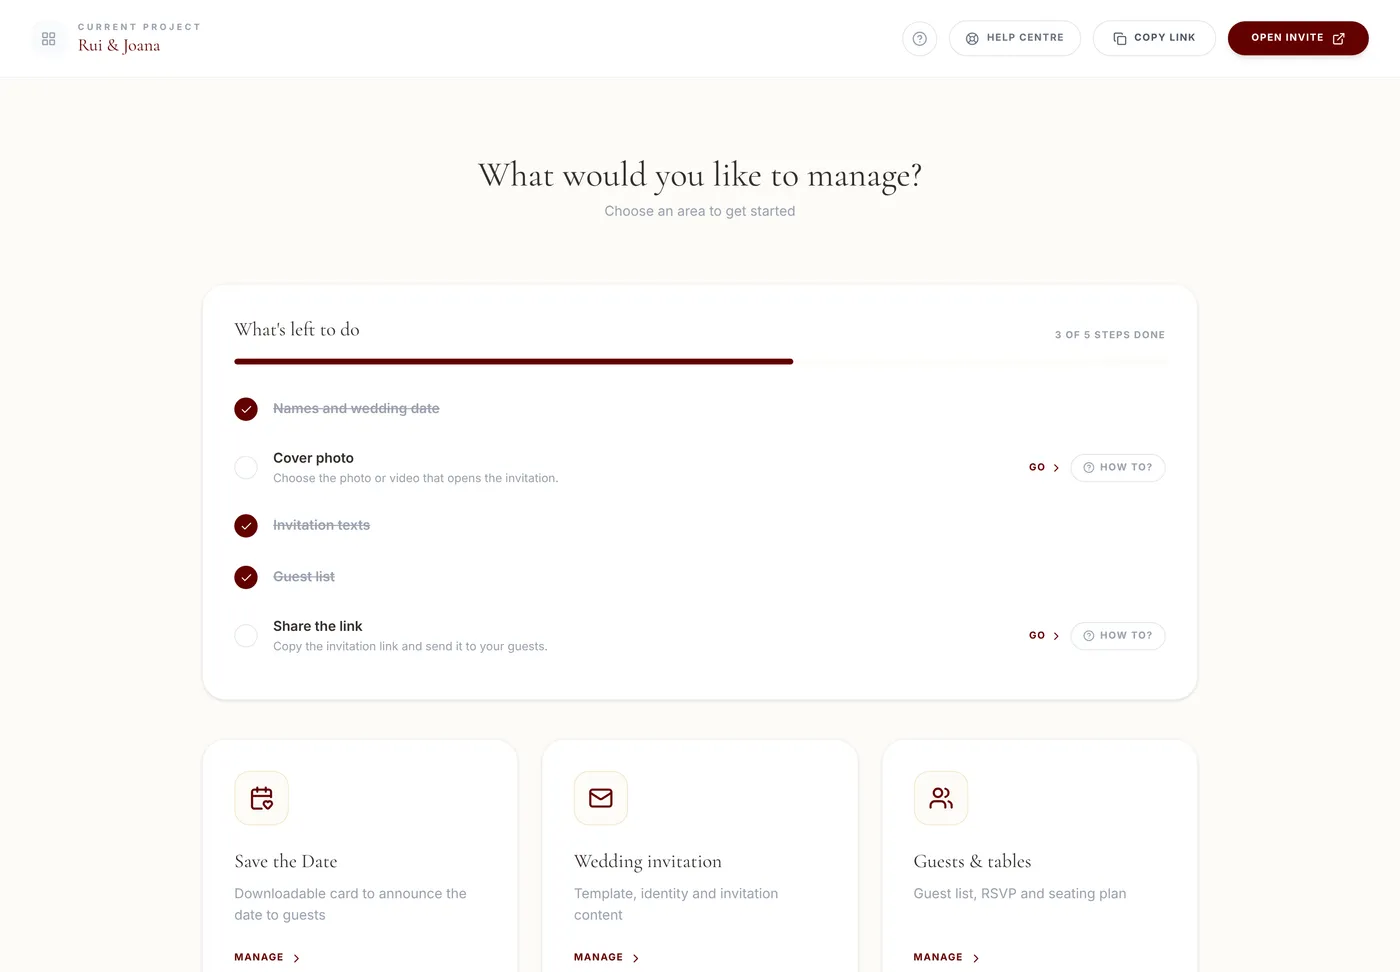
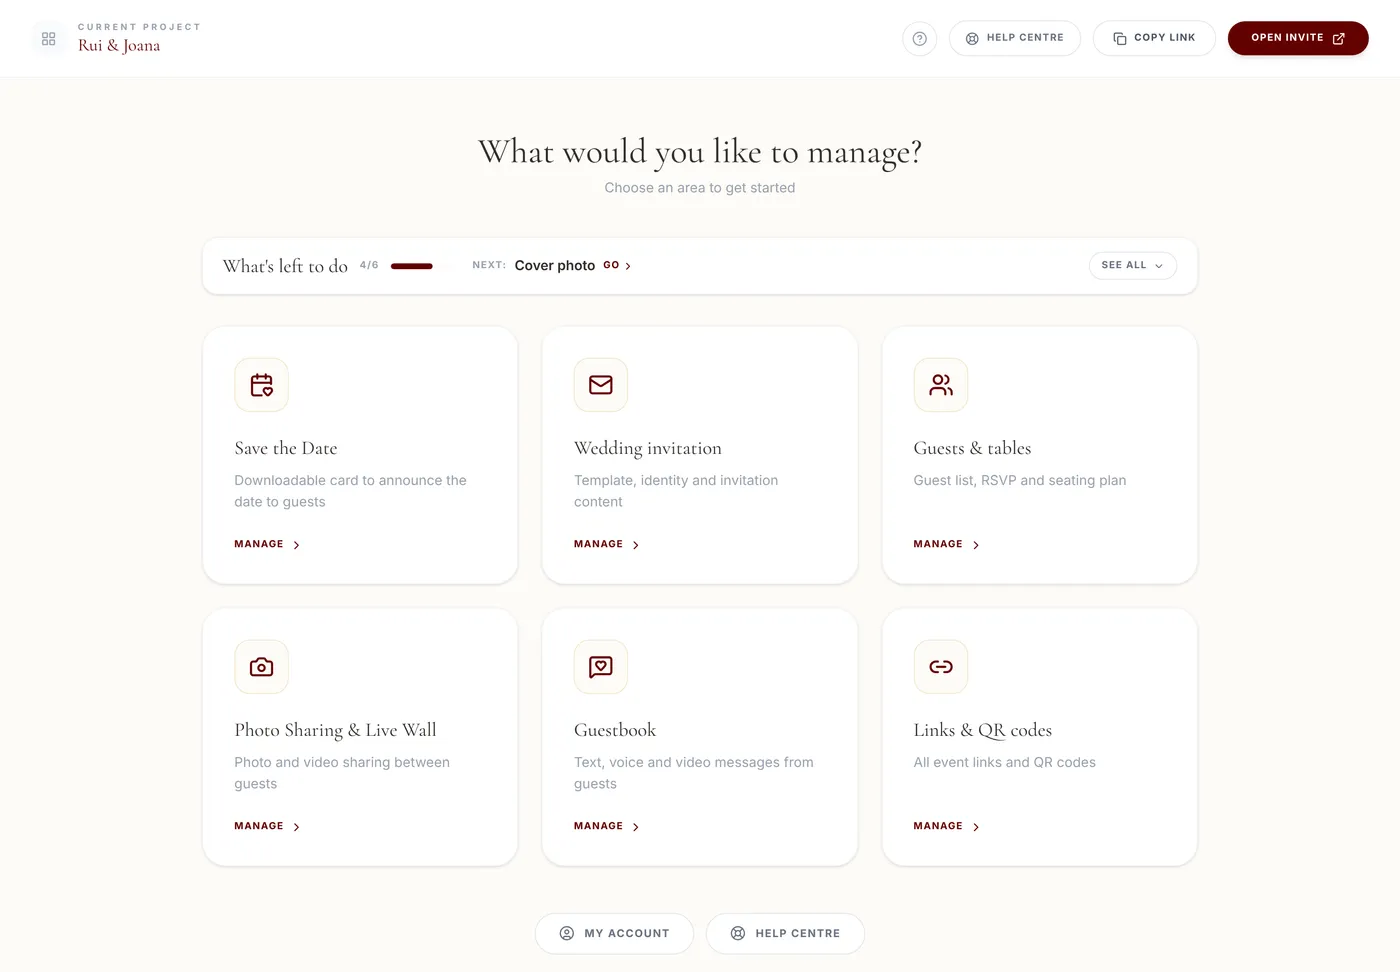
"O que falta fazer" mais discreto: barra compacta, lista em Ver tudo
- Fechado por omissão: uma linha com o progresso, o próximo passo e Ir
- Ver tudo abre a lista completa; o painel lembra-se, por evento
- Menos espaço vazio no topo do hub; ajuda PT/EN e captura do hub refeitas

Claude-Session: https://claude.ai/code/session_01LHBcQC4ALkSzPbFxTnStZp

diff --git a/components/dashboard/SetupChecklist.tsx b/components/dashboard/SetupChecklist.tsx
@@ -1,10 +1,15 @@
 "use client";
-import { Check, ChevronRight, HelpCircle, PartyPopper, X } from "lucide-react";
+import { useEffect, useState } from "react";
+import { Check, ChevronDown, ChevronRight, HelpCircle, PartyPopper, X } from "lucide-react";
 
 // "O que falta fazer": progresso de preparação do convite, no topo do hub.
 // Cada passo é calculado a partir de dados que já existem (nomes, foto,
 // textos, lista de convidados, link copiado) — não guarda estado próprio, por
 // isso nunca fica dessincronizado com o que o casal realmente fez.
+//
+// Por omissão aparece fechado: uma barra de uma linha com o progresso, o
+// próximo passo e "Ver tudo". Aberto, mostra a lista completa. A escolha fica
+// guardada no browser, por evento (storageKey).
 
 export type ChecklistItem = {
   id: string;
@@ -23,6 +28,9 @@ type Dict = {
   allDoneDesc: string;
   dismiss: string;
   howBtn?: string;
+  next?: string;     // "Próximo:"
+  showAll?: string;  // "Ver tudo"
+  showLess?: string; // "Fechar"
 };
 
 type Props = {
@@ -30,75 +38,111 @@ type Props = {
   dict: Dict;
   onDismiss: () => void;
   onHelp?: (slug: string) => void;
+  storageKey?: string;
 };
 
-export default function SetupChecklist({ items, dict, onDismiss, onHelp }: Props) {
+export default function SetupChecklist({ items, dict, onDismiss, onHelp, storageKey }: Props) {
+  const [open, setOpen] = useState(false);
+  useEffect(() => {
+    if (!storageKey) return;
+    try { setOpen(localStorage.getItem(storageKey) === "1"); } catch { /* sem localStorage: fica fechado */ }
+  }, [storageKey]);
+  const toggle = () => {
+    setOpen(o => {
+      const next = !o;
+      if (storageKey) { try { localStorage.setItem(storageKey, next ? "1" : "0"); } catch { /* ignorar */ } }
+      return next;
+    });
+  };
+
   if (items.length === 0) return null;
   const done = items.filter(i => i.done).length;
   const total = items.length;
   const pct = Math.round((done / total) * 100);
+  const nextItem = items.find(i => !i.done);
+  const progressLabel = dict.progress.replace("{done}", String(done)).replace("{total}", String(total));
 
   if (done === total) {
     return (
-      <div data-checklist="done" className="mb-10 bg-green-50 border border-green-100 rounded-3xl px-6 py-5 flex items-center gap-4">
-        <div className="w-11 h-11 rounded-2xl bg-white border border-green-100 flex items-center justify-center text-green-500 shrink-0">
-          <PartyPopper size={20} />
-        </div>
-        <div className="flex-1 min-w-0">
-          <p className="font-serif text-lg text-ink leading-snug">{dict.allDoneTitle}</p>
-          <p className="text-gray-500 text-xs mt-0.5">{dict.allDoneDesc}</p>
-        </div>
-        <button onClick={onDismiss} aria-label={dict.dismiss} className="text-gray-400 hover:text-gray-600 p-2 rounded-full hover:bg-white transition-all">
-          <X size={16} />
+      <div data-checklist="done" className="mb-8 bg-green-50 border border-green-100 rounded-2xl px-5 py-3 flex items-center gap-3">
+        <PartyPopper size={18} className="text-green-500 shrink-0" />
+        <p className="flex-1 min-w-0 text-sm text-ink"><span className="font-semibold">{dict.allDoneTitle}</span> <span className="text-gray-500 text-xs hidden sm:inline">{dict.allDoneDesc}</span></p>
+        <button onClick={onDismiss} aria-label={dict.dismiss} className="text-gray-400 hover:text-gray-600 p-1.5 rounded-full hover:bg-white transition-all">
+          <X size={15} />
         </button>
       </div>
     );
   }
 
+  const progressBar = (
+    <div className="h-1.5 bg-cream rounded-full overflow-hidden" role="progressbar" aria-valuenow={pct} aria-valuemin={0} aria-valuemax={100} aria-label={progressLabel}>
+      <div className="h-full bg-brand rounded-full transition-all duration-500" style={{ width: `${pct}%` }} />
+    </div>
+  );
+
   return (
-    <section data-checklist="todo" className="mb-10 bg-white border border-gray-100 rounded-3xl p-6 sm:p-8 shadow-sm">
-      <div className="flex items-end justify-between gap-4 mb-4">
-        <h3 className="font-serif text-xl text-ink">{dict.title}</h3>
-        <span className="text-[10px] font-bold uppercase tracking-widest text-gray-400 shrink-0">
-          {dict.progress.replace("{done}", String(done)).replace("{total}", String(total))}
-        </span>
+    <section data-checklist="todo" data-open={open} className="mb-8 bg-white border border-gray-100 rounded-2xl shadow-sm">
+      {/* Barra compacta (sempre visível) */}
+      <div className="px-5 py-3.5 flex flex-wrap items-center gap-x-5 gap-y-2">
+        <div className="flex items-center gap-3 min-w-[180px]">
+          <h3 className="font-serif text-xl text-ink whitespace-nowrap">{dict.title}</h3>
+          <span className="text-[10px] font-bold uppercase tracking-widest text-gray-400 whitespace-nowrap">{done}/{total}</span>
+          <div className="w-16 hidden sm:block">{progressBar}</div>
+        </div>
+        {nextItem && !open && (
+          <button onClick={nextItem.onGo} className="flex-1 min-w-0 flex items-center gap-2 text-left group">
+            <span className="text-[10px] font-bold uppercase tracking-widest text-gray-400 shrink-0">{dict.next ?? "Próximo:"}</span>
+            <span className="text-sm text-ink font-semibold truncate group-hover:text-brand transition-colors">{nextItem.label}</span>
+            <span className="inline-flex items-center gap-0.5 text-[10px] font-bold uppercase tracking-widest text-brand shrink-0 group-hover:gap-1.5 transition-all">
+              {dict.go} <ChevronRight size={12} />
+            </span>
+          </button>
+        )}
+        {open && <span className="flex-1 text-[10px] font-bold uppercase tracking-widest text-gray-400">{progressLabel}</span>}
+        <button
+          onClick={toggle}
+          aria-expanded={open}
+          className="ml-auto inline-flex items-center gap-1.5 text-[10px] font-bold uppercase tracking-widest text-gray-500 hover:text-brand border border-gray-200 hover:border-gold-soft rounded-full px-3 py-1.5 transition-all shrink-0"
+        >
+          {open ? (dict.showLess ?? "Fechar") : (dict.showAll ?? "Ver tudo")}
+          <ChevronDown size={12} className={`transition-transform ${open ? "rotate-180" : ""}`} />
+        </button>
       </div>
 
-      <div className="h-1.5 bg-cream rounded-full overflow-hidden mb-5" role="progressbar" aria-valuenow={pct} aria-valuemin={0} aria-valuemax={100}>
-        <div className="h-full bg-brand rounded-full transition-all duration-500" style={{ width: `${pct}%` }} />
-      </div>
-
-      <ul className="divide-y divide-gray-50">
-        {items.map(item => (
-          <li key={item.id} data-item={item.id} data-done={item.done} className="flex items-center gap-2">
-            <button
-              onClick={item.onGo}
-              className="flex-1 min-w-0 flex items-center gap-4 py-3.5 text-left group"
-            >
-              <span className={`w-6 h-6 rounded-full flex items-center justify-center shrink-0 border transition-colors ${item.done ? "bg-brand border-brand text-white" : "border-gray-200 text-transparent group-hover:border-brand"}`}>
-                <Check size={13} />
-              </span>
-              <span className="flex-1 min-w-0">
-                <span className={`block text-sm font-semibold ${item.done ? "text-gray-400 line-through" : "text-ink"}`}>{item.label}</span>
-                {!item.done && <span className="block text-xs text-gray-400 mt-0.5">{item.hint}</span>}
-              </span>
-              {!item.done && (
-                <span className="hidden sm:inline-flex items-center gap-1 text-[10px] font-bold uppercase tracking-widest text-brand group-hover:gap-2 transition-all shrink-0">
-                  {dict.go} <ChevronRight size={13} />
-                </span>
-              )}
-            </button>
-            {!item.done && item.helpSlug && onHelp && dict.howBtn && (
-              <button
-                onClick={() => onHelp(item.helpSlug!)}
-                className="shrink-0 flex items-center gap-1.5 text-[10px] font-bold uppercase tracking-widest text-gray-400 hover:text-brand border border-gray-200 hover:border-gold-soft rounded-full px-3 py-1.5 transition-all"
-              >
-                <HelpCircle size={12} /> {dict.howBtn}
-              </button>
-            )}
-          </li>
-        ))}
-      </ul>
+      {/* Lista completa (só aberta) */}
+      {open && (
+        <div className="px-5 sm:px-6 pb-4 border-t border-gray-50">
+          <div className="pt-3 sm:hidden">{progressBar}</div>
+          <ul className="divide-y divide-gray-50">
+            {items.map(item => (
+              <li key={item.id} data-item={item.id} data-done={item.done} className="flex items-center gap-2">
+                <button onClick={item.onGo} className="flex-1 min-w-0 flex items-center gap-4 py-3 text-left group">
+                  <span className={`w-6 h-6 rounded-full flex items-center justify-center shrink-0 border transition-colors ${item.done ? "bg-brand border-brand text-white" : "border-gray-200 text-transparent group-hover:border-brand"}`}>
+                    <Check size={13} />
+                  </span>
+                  <span className="flex-1 min-w-0">
+                    <span className={`block text-sm font-semibold ${item.done ? "text-gray-400 line-through" : "text-ink"}`}>{item.label}</span>
+                    {!item.done && <span className="block text-xs text-gray-400 mt-0.5">{item.hint}</span>}
+                  </span>
+                  {!item.done && (
+                    <span className="hidden sm:inline-flex items-center gap-1 text-[10px] font-bold uppercase tracking-widest text-brand group-hover:gap-2 transition-all shrink-0">
+                      {dict.go} <ChevronRight size={13} />
+                    </span>
+                  )}
+                </button>
+                {!item.done && item.helpSlug && onHelp && dict.howBtn && (
+                  <button
+                    onClick={() => onHelp(item.helpSlug!)}
+                    className="shrink-0 flex items-center gap-1.5 text-[10px] font-bold uppercase tracking-widest text-gray-400 hover:text-brand border border-gray-200 hover:border-gold-soft rounded-full px-3 py-1.5 transition-all"
+                  >
+                    <HelpCircle size={12} /> {dict.howBtn}
+                  </button>
+                )}
+              </li>
+            ))}
+          </ul>
+        </div>
+      )}
     </section>
   );
 }

diff --git a/content/help/pt.ts b/content/help/pt.ts
@@ -104,7 +104,7 @@ export const helpPt: HelpContent = {
       ],
       steps: [
         "Ao abrirem um evento vêm a página **O que quer gerir?**, com um cartão por área: **Save the Date**, **Convite de casamento**, **Convidados e mesas**, **Photo Sharing & Live Wall**, **Guestbook** e **Links e QR codes**.",
-        "No topo, a lista **O que falta fazer** mostra os passos que ainda faltam e leva-vos a cada um.",
+        "No topo, a barra **O que falta fazer** mostra o progresso e o próximo passo, com **Ir** para lá chegar. Em **Ver tudo** abrem a lista completa; o painel lembra-se se a deixaram aberta ou fechada.",
         "Carreguem num cartão para entrar nessa área. Lá dentro, o menu à esquerda muda de separador e **Áreas** volta à página inicial. Em ecrãs pequenos o menu fica em baixo.",
         "No **Convite**, o telemóvel à direita mostra o convite como os convidados o vão ver e atualiza sozinho depois de gravar.",
         "**Minha Conta**, no fundo do menu, tem quatro blocos: **O vosso plano**, **Pagamentos**, **Equipa do evento** e **Os vossos dados**.",

diff --git a/content/help/en.ts b/content/help/en.ts
@@ -106,7 +106,7 @@ export const helpEn: HelpContent = {
       ],
       steps: [
         "When you open an event you land on **What would you like to manage?**, with one card per area: **Save the Date**, **Wedding invitation**, **Guests & tables**, **Photo Sharing & Live Wall**, **Guestbook** and **Links & QR codes**.",
-        "At the top, the **What's left to do** list shows the steps still missing and takes you to each one.",
+        "At the top, the **What's left to do** bar shows your progress and the next step, with **Go** to get there. **See all** opens the full list; the dashboard remembers whether you left it open or closed.",
         "Click a card to enter that area. Inside, the menu on the left switches tabs and **Areas** goes back to the home page. On small screens the menu is at the bottom.",
         "In the **Invitation**, the phone on the right shows the invitation as guests will see it and refreshes by itself after saving.",
         "**My Account**, at the bottom of the menu, has four blocks: **Your plan**, **Payments**, **Event team** and **Your details**.",

diff --git a/app/[locale]/dashboard/[slug]/page.tsx b/app/[locale]/dashboard/[slug]/page.tsx
@@ -693,15 +693,15 @@ export default function Dashboard() {
         {helpDrawer}
         {payerModal}
 
-        <main className="flex-1 px-6 py-14 sm:py-20">
+        <main className="flex-1 px-6 py-10 sm:py-14">
           <div className="max-w-5xl mx-auto">
             {statusBanner("mb-10")}
-            <div className="text-center mb-12 sm:mb-16">
+            <div className="text-center mb-8 sm:mb-10">
               <h2 className="font-serif text-3xl sm:text-4xl text-ink">{dict.hubTitle}</h2>
               <p className="text-gray-400 text-sm mt-2">{dict.hubSubtitle}</p>
             </div>
 
-            {!checklistHidden && <SetupChecklist items={checklistItems} dict={checklistDict} onDismiss={hideChecklist} onHelp={setHelpSlug} />}
+            {!checklistHidden && <SetupChecklist items={checklistItems} dict={checklistDict} onDismiss={hideChecklist} onHelp={setHelpSlug} storageKey={`dis_checklist_open_${params.slug}`} />}
 
             <div className="grid grid-cols-1 sm:grid-cols-2 lg:grid-cols-3 gap-6">
               {groupCards.map(card => (

diff --git a/dictionaries/pt.ts b/dictionaries/pt.ts
@@ -441,6 +441,9 @@ const pt = {
   },
   "SetupChecklist": {
     "howBtn": "Como fazer?",
+    "next": "Próximo:",
+    "showAll": "Ver tudo",
+    "showLess": "Fechar",
     "title": "O que falta fazer",
     "progress": "{done} de {total} passos concluídos",
     "go": "Ir",

diff --git a/dictionaries/en.ts b/dictionaries/en.ts
@@ -441,6 +441,9 @@ const en = {
   },
   "SetupChecklist": {
     "howBtn": "How to?",
+    "next": "Next:",
+    "showAll": "See all",
+    "showLess": "Close",
     "title": "What's left to do",
     "progress": "{done} of {total} steps done",
     "go": "Go",
